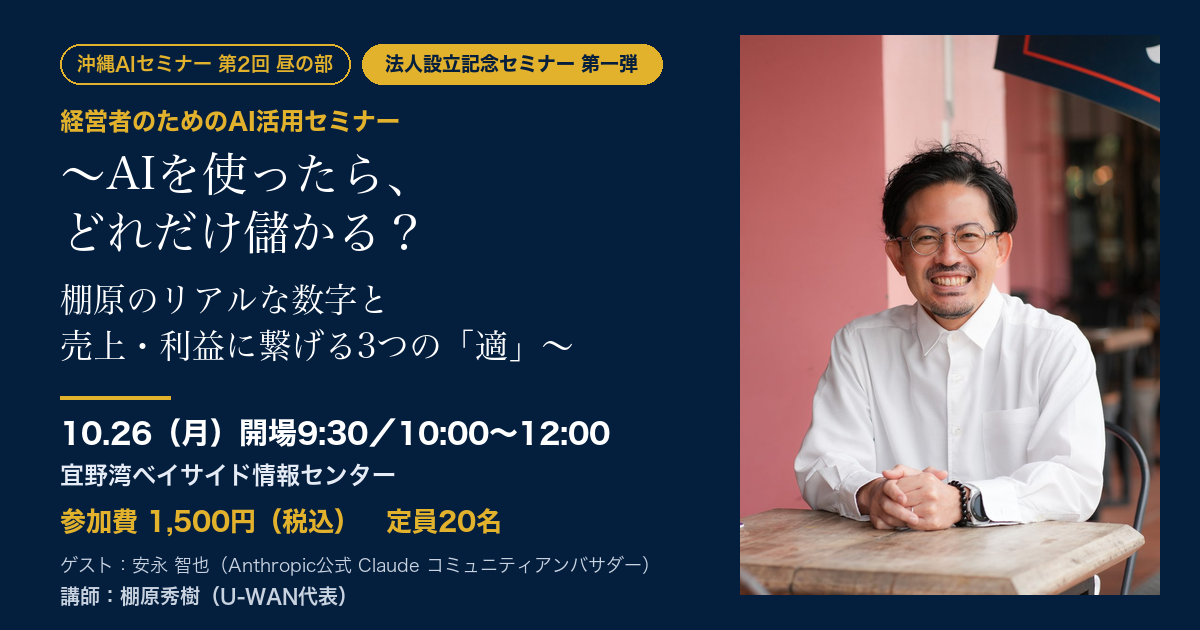
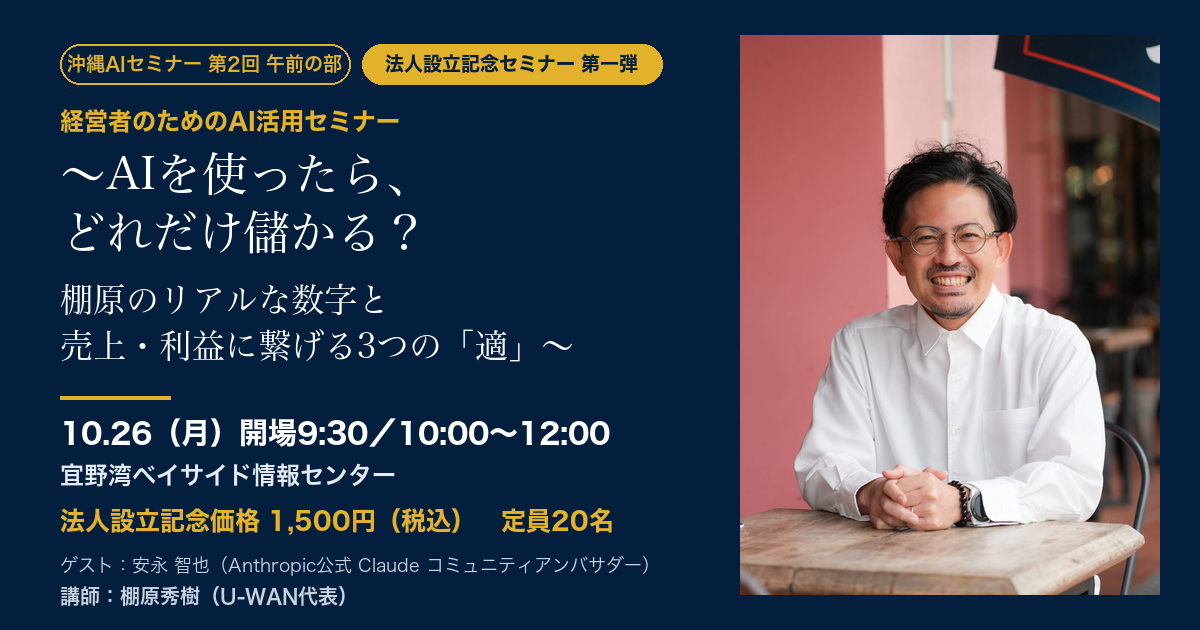
feat(morning LP/OTO): apply LP v2.5 and OTO v0.6 (午前の部, 法人設立記念価格, IPA numbers, FAQ 11)

Changed region(s): [[0.0308, 0.7841, 0.5242, 0.8444], [0.0617, 0.0905, 0.3083, 0.1206]]

diff --git a/okinawa-ai-seminar-02-morning/index.html b/okinawa-ai-seminar-02-morning/index.html
@@ -5,11 +5,11 @@
 <meta name="viewport" content="width=device-width, initial-scale=1">
 <meta name="robots" content="index, follow">
 <link rel="canonical" href="https://u-wan.jp/okinawa-ai-seminar-02-morning/">
-<title>沖縄AIセミナー 第2回 昼の部｜経営者のためのAI活用セミナー〜AIを使ったら、どれだけ儲かる？棚原のリアルな数字と売上・利益に繋げる3つの「適」〜</title>
-<meta name="description" content="2026年10月26日（月）開場9:30／10:00〜12:00、宜野湾で開く経営者・経営層向けのセミナー（参加費1,500円・税込・事前決済）です。棚原のリアルな数字と、AI社員が実際に働いている画面をお見せします。定員20名・先着順、会場参加のみ。">
+<title>沖縄AIセミナー 第2回 午前の部｜経営者のためのAI活用セミナー〜AIを使ったら、どれだけ儲かる？棚原のリアルな数字と売上・利益に繋げる3つの「適」〜</title>
+<meta name="description" content="2026年10月26日（月）開場9:30／10:00〜12:00、宜野湾で開く経営者・経営層向けのセミナー（法人設立記念価格 1,500円・税込）です。棚原のリアルな数字と、AI社員が実際に働いている画面をお見せします。定員20名・先着順、会場参加のみ。">
 <meta property="og:type" content="website">
-<meta property="og:title" content="沖縄AIセミナー 第2回 昼の部｜経営者のためのAI活用セミナー〜AIを使ったら、どれだけ儲かる？棚原のリアルな数字と売上・利益に繋げる3つの「適」〜">
-<meta property="og:description" content="2026年10月26日（月）宜野湾で開く、経営者・経営層向けのセミナー（参加費1,500円）。売上・利益に繋げる3つの「適」と、棚原のリアルな数字をお見せします。定員20名・先着順。">
+<meta property="og:title" content="沖縄AIセミナー 第2回 午前の部｜経営者のためのAI活用セミナー〜AIを使ったら、どれだけ儲かる？棚原のリアルな数字と売上・利益に繋げる3つの「適」〜">
+<meta property="og:description" content="2026年10月26日（月）宜野湾で開く、経営者・経営層向けのセミナー（法人設立記念価格 1,500円）。売上・利益に繋げる3つの「適」と、棚原のリアルな数字をお見せします。定員20名・先着順。">
 <meta property="og:url" content="https://u-wan.jp/okinawa-ai-seminar-02-morning/">
 <meta property="og:image" content="https://u-wan.jp/okinawa-ai-seminar-02-morning/assets/ogp.png">
 <meta property="og:image:width" content="1200">
@@ -26,8 +26,8 @@
 {
   "@context": "https://schema.org",
   "@type": "Event",
-  "name": "沖縄AIセミナー 第2回 昼の部｜経営者のためのAI活用セミナー〜AIを使ったら、どれだけ儲かる？棚原のリアルな数字と売上・利益に繋げる3つの「適」〜",
-  "description": "2026年10月26日（月）宜野湾で開く、経営者・経営層向けのセミナー（参加費1,500円）。売上・利益に繋げる3つの「適」と、棚原のリアルな数字をお見せします。定員20名・先着順。",
+  "name": "沖縄AIセミナー 第2回 午前の部｜経営者のためのAI活用セミナー〜AIを使ったら、どれだけ儲かる？棚原のリアルな数字と売上・利益に繋げる3つの「適」〜",
+  "description": "2026年10月26日（月）宜野湾で開く、経営者・経営層向けのセミナー（法人設立記念価格 1,500円）。売上・利益に繋げる3つの「適」と、棚原のリアルな数字をお見せします。定員20名・先着順。",
   "doorTime": "2026-10-26T09:30:00+09:00",
   "startDate": "2026-10-26T10:00:00+09:00",
   "endDate": "2026-10-26T12:00:00+09:00",
@@ -50,7 +50,7 @@
 
 <header class="site-header">
   <div class="wrap">
-    <span class="site-logo" aria-label="U-WAN 沖縄AIセミナー 第2回 昼の部">U-WAN <span>｜</span> <span class="logo-full" style="color:inherit">沖縄AIセミナー 第2回 昼の部</span><span class="logo-short" style="color:inherit">AIセミナー 昼の部</span></span>
+    <span class="site-logo" aria-label="U-WAN 沖縄AIセミナー 第2回 午前の部">U-WAN <span>｜</span> <span class="logo-full" style="color:inherit">沖縄AIセミナー 第2回 午前の部</span><span class="logo-short" style="color:inherit">AIセミナー 午前の部</span></span>
     <a class="btn btn-primary header-cta" href="https://uw.u-wan.jp/event/mkcg3Sk0tpSh/register">申し込む<span class="arrow" aria-hidden="true"></span></a>
   </div>
 </header>
@@ -65,7 +65,7 @@
       </picture></div>
   <div class="wrap hero-grid">
     <div class="hero-copy">
-      <div class="hero-tags"><p class="series-tag">沖縄AIセミナー 第2回 昼の部</p><p class="series-tag series-tag--gold">法人設立記念セミナー 第一弾</p></div>
+      <div class="hero-tags"><p class="series-tag">沖縄AIセミナー 第2回 午前の部</p><p class="series-tag series-tag--gold">法人設立記念セミナー 第一弾</p></div>
       <h1 id="hero-title" class="hero-title">
         <span class="kicker">経営者のためのAI活用セミナー</span>
         <span class="ln"><span class="nb">〜AIを使ったら、</span><span class="nb">どれだけ儲かる？</span></span>
@@ -128,12 +128,12 @@
       <dl class="hero-info">
         <div><dt>日時</dt><dd><b>2026年10月26日（月）</b> 開場9:30／10:00〜12:00</dd></div>
         <div><dt>会場</dt><dd>宜野湾ベイサイド情報センター（沖縄県宜野湾市）</dd></div>
-        <div><dt>参加費</dt><dd><b>1,500円</b>（税込・事前決済）</dd></div>
+        <div><dt>参加費</dt><dd><b>法人設立記念価格 1,500円</b>（税込）</dd></div>
         <div><dt>定員</dt><dd><b>20名</b>（先着順・会場参加のみ。オンライン配信はありません）</dd></div>
       </dl>
 
       <div class="cta-block">
-        <a class="btn btn-primary" href="https://uw.u-wan.jp/event/mkcg3Sk0tpSh/register">昼の部に申し込む<span class="arrow" aria-hidden="true"></span></a>
+        <a class="btn btn-primary" href="https://uw.u-wan.jp/event/mkcg3Sk0tpSh/register">午前の部に申し込む<span class="arrow" aria-hidden="true"></span></a>
       </div>
     </div>
   </div>
@@ -146,7 +146,7 @@
       <li><span class="stat-label">棚原が一緒に働いているAI社員の数（2026年10月時点）</span><b class="num">75<small>名</small></b></li>
       <li><span class="stat-label">AIを売上・利益に繋げるポイント「3適」</span><b class="num">3<small>つ</small></b></li>
       <li><span class="stat-label">定員（先着順・会場参加のみ）</span><b class="num">20<small>名</small></b></li>
-      <li><span class="stat-label">参加費（税込・事前決済）</span><b class="num">1,500<small>円</small></b></li>
+      <li><span class="stat-label">法人設立記念価格（税込）</span><b class="num">1,500<small>円</small></b></li>
     </ul>
   </div>
 </section>
@@ -156,7 +156,8 @@
   <div class="wrap wrap--narrow">
     <h2 class="sec-title problem-title"><span class="nb">効率化の効果は感じている。</span><span class="nb"><mark class="hl">次は、売上・利益へ。</mark></span></h2>
     <div class="problem-body">
-      <p>IPA『DX動向2026』では、AIを導入・活用して、顧客満足度が向上したか、売上や利益が向上したかという問いに「はい」と答えた方が、それぞれ<strong class="big-stat">4.5%</strong>、<strong class="big-stat">3.9%</strong>とされています。</p>
+      <p>IPA『DX動向2026』では、AIの導入で効果があったと答えた企業のうち、「業務が効率化したり迅速化した」が<strong>91.6%</strong>だった一方、「顧客満足度が向上した」が<strong class="big-stat">4.5%</strong>、「売上や利益が向上した」が<strong class="big-stat">3.9%</strong>とされています。</p>
+      <p>この数字、効率化を感じている割合と比較すると、<strong class="big-stat">とても低い</strong>んです。</p>
       <p class="problem-kicker">棚原は、こう見ています。</p>
       <p>多くの方が、AIによる効率化の効果は、もう感じています。</p>
       <p>次の一段は、経営の指標である<strong>売上・利益</strong>。</p>
@@ -240,7 +241,7 @@
     </div>
 
     <div class="cta-mid">
-      <a class="btn btn-primary" href="https://uw.u-wan.jp/event/mkcg3Sk0tpSh/register">昼の部に申し込む<span class="arrow" aria-hidden="true"></span></a>
+      <a class="btn btn-primary" href="https://uw.u-wan.jp/event/mkcg3Sk0tpSh/register">午前の部に申し込む<span class="arrow" aria-hidden="true"></span></a>
     </div>
   </div>
 </section>
@@ -307,23 +308,6 @@
   </div>
 </section>
 
-<!-- ========== 7. 参加前によくある気持ちへ ========== -->
-<section class="section sec-cream">
-  <div class="wrap wrap--narrow">
-    <h2 class="sec-title">参加前に、よくある気持ちへ</h2>
-    <div class="qa-stack">
-      <article class="qa-card">
-        <h3><span class="q">Q1</span>「有料のセミナーって、あとで何か売り込まれませんか？」</h3>
-        <p>参加費1,500円（税込）は、事前決済でお支払いいただきます。当日その場で、追加のお支払いをお願いすることはありません。<br>セミナーの最後に、ご希望の方向けに、無料個別相談のお申し込み方法をご案内します（相談は後日です）。ご参加は任意です。<br>お申し込み直後に、夜の部の特別なご案内の画面が表示されます（ご参加は任意です）。</p>
-      </article>
-      <article class="qa-card">
-        <h3><span class="q">Q2</span>「AIのことが分からなくても、社内の体制が整っていなくても、聴けますか？」</h3>
-        <p>大丈夫です。これからAIを本格的に使う方にも、すでに導入している方にも、参考にしていただける内容です。その両方を持ったままでお聴きください。</p>
-      </article>
-    </div>
-  </div>
-</section>
-
 <!-- ========== 8. 当日の流れ ========== -->
 <section class="section">
   <div class="wrap wrap--narrow">
@@ -365,7 +349,10 @@
     <h2 class="sec-title light">参加費のご案内</h2>
     <div class="price-card">
       <p class="price-label">参加費</p>
-      <p class="price-value"><b>1,500</b>円<small>（税込・事前決済）</small></p>
+      <p class="price-old"><span class="sr-only">通常価格</span><span aria-hidden="true">通常価格　</span>3,300円</p>
+      <p class="price-arrow" aria-hidden="true">↓</p>
+      <p class="price-badge">法人設立記念価格</p>
+      <p class="price-value"><b>1,500</b>円<small>（税込）</small></p>
     </div>
     <div class="price-incl">
       <p class="price-incl-title">参加費に含まれるもの</p>
@@ -379,10 +366,10 @@
     </div>
     <div class="price-terms">
       <p class="price-incl-title">お申し込みについて</p>
-      <p>お申し込みは事前のオンライン決済制です。大変恐れ入りますが、お申し込み後のキャンセル・返金は承っておりません。定員20名の少人数開催のため、まずはご予定をよくご確認のうえ、お申し込みをお願いいたします。</p>
+      <p>お支払いは、クレジットカード決済のみとなっております。大変恐れ入りますが、お申し込み後のキャンセル・返金は承っておりません。定員20名の少人数開催のため、まずはご予定をよくご確認のうえ、お申し込みをお願いいたします。</p>
     </div>
     <div class="cta-mid">
-      <a class="btn btn-primary" href="https://uw.u-wan.jp/event/mkcg3Sk0tpSh/register">昼の部に申し込む<span class="arrow" aria-hidden="true"></span></a>
+      <a class="btn btn-primary" href="https://uw.u-wan.jp/event/mkcg3Sk0tpSh/register">午前の部に申し込む<span class="arrow" aria-hidden="true"></span></a>
     </div>
   </div>
 </section>
@@ -393,10 +380,10 @@
     <h2 class="sec-title">開催概要</h2>
     <table class="overview">
       <tbody>
-        <tr><th scope="row">位置付け</th><td>法人設立記念セミナー 第一弾（昼の部）／第二弾（夜の部）</td></tr>
+        <tr><th scope="row">位置付け</th><td>法人設立記念セミナー 第一弾（午前の部）／第二弾（夜の部）</td></tr>
         <tr><th scope="row">日時</th><td>2026年10月26日（月）開場9:30／10:00〜12:00</td></tr>
         <tr><th scope="row">会場</th><td>宜野湾ベイサイド情報センター（沖縄県宜野湾市）<br><a class="text-link" href="https://maps.app.goo.gl/uBUHmyr1VZN5RHfTA" rel="noopener" target="_blank">地図を開く</a></td></tr>
-        <tr><th scope="row">参加費</th><td>1,500円（税込・事前決済）</td></tr>
+        <tr><th scope="row">参加費</th><td>法人設立記念価格 1,500円（税込）（通常価格3,300円）</td></tr>
         <tr><th scope="row">対象</th><td>経営者・経営層の方（社員の方のご参加はご遠慮いただいています）</td></tr>
         <tr><th scope="row">登壇</th><td>棚原秀樹／ゲスト：安永智也さん（セミナーの後にコメント）</td></tr>
         <tr><th scope="row">形式</th><td>会場参加のみ。オンライン配信はありません。資料の配布・録画はありません。途中でのご入退場はご遠慮いただいています</td></tr>
@@ -411,7 +398,7 @@
   <div class="wrap wrap--narrow">
     <div class="night">
       <h2 class="night-title">法人設立記念セミナー 第二弾は、夜の部です</h2>
-      <p>同じ日の夜、同じ会場で「<span class="nb">沖縄AIセミナー</span> <span class="nb">第2回</span> <span class="nb">夜の部</span>」を、法人設立記念セミナーの第二弾として開きます。</p>
+      <p>同じ日の夜、同じ会場で「<span class="nb">沖縄AIセミナー</span> <span class="nb">第2回</span> <span class="nb">夜の部</span>」を、法人設立記念セミナーの第二弾として開きます。<br>午前の部にご参加いただいた方には特典もございますので、よろしければ夜の部の参加もご検討ください。</p>
       <ul class="night-info">
         <li><b>日時</b>2026年10月26日（月）開場18:00／セミナー18:30〜20:30</li>
         <li><b>テーマ</b>これからの経営に必要なAI時代の成長戦略〜最先端のAI事情と活用方法〜</li>
@@ -425,15 +412,16 @@
   <div class="wrap wrap--narrow">
     <h2 class="sec-title">よくあるご質問</h2>
     <div class="faq">
-      <details><summary>参加費はいくらですか？お支払い方法は？</summary><p>参加費は1,500円（税込）です。お支払いは、事前のクレジットカード決済（Stripe）のみとなっております。恐れ入りますが、銀行振込でのお支払いは承っておりません。</p></details>
+      <details><summary>参加費はいくらですか？お支払い方法は？</summary><p>参加費は、法人設立記念価格 1,500円（税込）です。当日その場で、追加のお支払いをお願いすることはありません。お支払いは、クレジットカード決済（Stripe）のみとなっております。恐れ入りますが、銀行振込でのお支払いは承っておりません。</p></details>
       <details><summary>どんなセミナーですか？</summary><p>経営者・経営層向けに、AIを売上・利益に繋げる3つのポイント「3適」と、棚原のAI社員が実際に働いている画面を、棚原自身の数字とあわせてお話しするセミナーです。セミナーの後に、ゲストの安永智也さんからコメントをいただきます。当日、会場で個別に相談をお受けする時間は設けていません。個別相談をご希望の方には、最後にお申し込み方法をご案内します（相談は後日です）。</p></details>
+      <details><summary>AIのことが分からなくても、社内の体制が整っていなくても、聴けますか？</summary><p>大丈夫です。これからAIを本格的に使う方にも、すでに導入している方にも、参考にしていただける内容です。その両方を持ったままでお聴きください。</p></details>
       <details><summary>うちみたいな小さい会社でも、AIの成果は出ますか？</summary><p>中小企業・小規模な会社ほど、AIの効果や成果が出やすい面があると、棚原は考えています。意思決定が早く、社長のひと声で動けるという、小回りの良さがあるためです。当日は、その考え方もお話しします。</p></details>
       <details><summary>社員の方も参加できますか？</summary><p>経営者・経営層の方のみのご参加となります。経営判断の視点を中心にお話しするセミナーのため、社員の方のご参加はご遠慮いただいています。恐れ入りますが、ご了承ください。</p></details>
       <details><summary>当日の資料の配布や録画はありますか？</summary><p>資料の配布と録画は行いません。会場でご覧いただく形でお伝えします。</p></details>
       <details><summary>オンラインで見られますか？</summary><p>今回は会場参加のみで、オンライン配信は行いません。</p></details>
       <details><summary>会場に駐車場はありますか？</summary><p>駐車場はありますが、台数に限りがあります。少し早めのご来場や公共交通機関のご利用もご検討ください。</p></details>
       <details><summary>参加できなくなった場合は、キャンセルや返金はできますか？</summary><p>大変恐れ入りますが、お申し込み後のキャンセル・返金は承っておりません。定員20名の少人数開催のため、まずはご予定をよくご確認のうえ、お申し込みをお願いいたします。もし当日どうしてもご参加が難しくなった場合は、前日（10月25日）までに、お申し込み完了メールへのご返信でご一報いただけると、他の方にお席をご案内できて助かります。</p></details>
-      <details><summary>夜の部にも参加できますか？</summary><p>はい。夜の部（開場18:00／18:30〜20:30）も、同じ会場で、第二弾として開きます。昼の部とは別のセミナーで、昼の部は12:00に終了します。昼の部にお申し込みいただいた後に、特別なご案内をいたします。お申し込み直後の画面で、ご案内が表示されます。</p></details>
+      <details><summary>夜の部にも参加できますか？</summary><p>はい。夜の部（開場18:00／18:30〜20:30）も、同じ会場で、第二弾として開きます。午前の部とは別のセミナーで、午前の部は12:00に終了します。午前の部にお申し込みいただいた後に、特別なご案内をいたします。お申し込み直後の画面で、ご案内が表示されます。</p></details>
       <details><summary>途中で入退場できますか？</summary><p>途中でのご入退場はご遠慮いただいています。開始時刻までにお越しください。</p></details>
     </div>
   </div>
@@ -444,7 +432,7 @@
   <div class="wrap wrap--narrow">
     <h2><span class="nb">10月26日の午前、</span><span class="nb">宜野湾でお会いしましょう。</span></h2>
     <p>棚原のリアルな数字と、AI社員が実際に働いている画面を、お見せします。<br>ゲストの安永さんからのコメントも、あわせて楽しみにしていてください。<br>ざっくばらんなセミナーですので、肩の力を抜いて来てください。定員は20名、先着順です。</p>
-    <a class="btn btn-primary btn-lg" href="https://uw.u-wan.jp/event/mkcg3Sk0tpSh/register">昼の部に申し込む<span class="arrow" aria-hidden="true"></span></a>
+    <a class="btn btn-primary btn-lg" href="https://uw.u-wan.jp/event/mkcg3Sk0tpSh/register">午前の部に申し込む<span class="arrow" aria-hidden="true"></span></a>
   </div>
 </section>
 
@@ -467,7 +455,7 @@
 
 <!-- モバイル追従CTA -->
 <div class="sticky-cta" id="stickyCta" inert aria-hidden="true">
-  <a class="btn btn-primary" href="https://uw.u-wan.jp/event/mkcg3Sk0tpSh/register">昼の部に申し込む<span class="arrow" aria-hidden="true"></span></a>
+  <a class="btn btn-primary" href="https://uw.u-wan.jp/event/mkcg3Sk0tpSh/register">午前の部に申し込む<span class="arrow" aria-hidden="true"></span></a>
 </div>
 
 <script>

diff --git a/okinawa-ai-seminar-02-morning-oto/index.html b/okinawa-ai-seminar-02-morning-oto/index.html
@@ -5,12 +5,12 @@
 <meta name="viewport" content="width=device-width, initial-scale=1">
 <meta name="robots" content="noindex, nofollow">
 <link rel="canonical" href="https://u-wan.jp/okinawa-ai-seminar-02-morning-oto/">
-<title>【昼の部お申し込みの方へ】10月26日 夜の部のご案内｜沖縄AIセミナー 第2回</title>
-<meta name="description" content="沖縄AIセミナー 第2回 昼の部へのお申し込み、ありがとうございます。同じ10月26日・同じ会場で開く、法人設立記念セミナー 第二弾（夜の部）の特別価格のご案内です。">
+<title>【午前の部お申し込みの方へ】10月26日 夜の部のご案内｜沖縄AIセミナー 第2回</title>
+<meta name="description" content="沖縄AIセミナー 第2回 午前の部へのお申し込み、ありがとうございます。同じ10月26日・同じ会場で開く、法人設立記念セミナー 第二弾（夜の部）の特別価格のご案内です。">
 
 <meta property="og:type" content="website">
-<meta property="og:title" content="【昼の部お申し込みの方へ】10月26日 夜の部のご案内｜沖縄AIセミナー 第2回">
-<meta property="og:description" content="沖縄AIセミナー 第2回 昼の部へのお申し込み、ありがとうございます。同じ10月26日・同じ会場で開く、法人設立記念セミナー 第二弾（夜の部）の特別価格のご案内です。">
+<meta property="og:title" content="【午前の部お申し込みの方へ】10月26日 夜の部のご案内｜沖縄AIセミナー 第2回">
+<meta property="og:description" content="沖縄AIセミナー 第2回 午前の部へのお申し込み、ありがとうございます。同じ10月26日・同じ会場で開く、法人設立記念セミナー 第二弾（夜の部）の特別価格のご案内です。">
 <meta property="og:url" content="https://u-wan.jp/okinawa-ai-seminar-02-morning-oto/">
 <meta property="og:image" content="https://u-wan.jp/okinawa-ai-seminar-02-morning/assets/ogp.png">
 <meta property="og:image:width" content="1200">
@@ -534,7 +534,7 @@ p:last-child { margin-bottom: 0; }
   <section class="thanks pad">
     <div class="wrap">
       <h1 class="heading"><span class="nb">お申し込み、</span><span class="nb">ありがとうございます。</span></h1>
-      <p class="thanks-lead"><span class="nb">このたびは「沖縄AIセミナー 第2回 昼の部」に</span><span class="nb">お申し込みいただき、</span><span class="nb">ありがとうございます。</span></p>
+      <p class="thanks-lead"><span class="nb">このたびは「沖縄AIセミナー 第2回 午前の部」に</span><span class="nb">お申し込みいただき、</span><span class="nb">ありがとうございます。</span></p>
 
       <div class="countdown-wrap">
         <div class="countdown" data-countdown hidden>
@@ -545,7 +545,7 @@ p:last-child { margin-bottom: 0; }
 
       <div class="confirm-box">
         <span class="confirm-mark" aria-hidden="true">✓</span>
-        <p>10月26日（月）昼の部（10:00〜12:00）のお申し込みは、すでに完了しています。</p>
+        <p>10月26日（月）午前の部（10:00〜12:00）のお申し込みは、すでに完了しています。</p>
       </div>
 
       <p class="thanks-note">お申し込み完了のメールをお送りしていますので、ご確認ください。<br>
@@ -557,9 +557,9 @@ p:last-child { margin-bottom: 0; }
   <section class="turn">
     <div class="wrap">
       <h2 class="heading heading--center heading--light">実は、もう一つお伝えしたいことがあります。</h2>
-      <p>昼の部と<strong class="turn-highlight">同じ10月26日、同じ会場</strong>で、<br>
+      <p>午前の部と<strong class="turn-highlight">同じ10月26日、同じ会場</strong>で、<br>
       法人設立記念セミナーの第二弾として、夜の部を開催します。</p>
-      <p style="margin-top:22px;">夜の部には、ゲストとして、昼の部にも登壇する安永智也さんにお越しいただきます。</p>
+      <p style="margin-top:22px;">夜の部には、ゲストとして、午前の部にも登壇する安永智也さんにお越しいただきます。</p>
     </div>
   </section>
 
@@ -659,7 +659,7 @@ p:last-child { margin-bottom: 0; }
         <div class="overview-row">
           <dt>形式</dt>
           <dd>リアル開催<br>
-          （昼の部と同じ日・同じ会場での開催です。法人設立記念セミナーの第二弾（昼の部が第一弾）で、別途お申し込みが必要です）</dd>
+          （午前の部と同じ日・同じ会場での開催です。法人設立記念セミナーの第二弾（午前の部が第一弾）で、別途お申し込みが必要です）</dd>
         </div>
         <div class="overview-row">
           <dt>キャンセル</dt>
@@ -677,7 +677,7 @@ p:last-child { margin-bottom: 0; }
   <section class="pricing pad" data-hide-on-close>
     <div class="wrap">
       <h2 class="heading">特別価格のご案内</h2>
-      <p class="pricing-lead">昼の部にお申し込みいただいた方に、<br>
+      <p class="pricing-lead">午前の部にお申し込みいただいた方に、<br>
       特別価格でご案内します。</p>
 
       <div class="price-card">
@@ -719,11 +719,11 @@ p:last-child { margin-bottom: 0; }
         <span class="ps-label">P.S.</span>
         <p>このページを読んで、「今回は見送ろう」と思われた方もいらっしゃると思います。それでまったく問題ありません。</p>
 
-        <div class="ps-confirm">10月26日 昼の部のお申し込みは、すでに完了しています。</div>
+        <div class="ps-confirm">10月26日 午前の部のお申し込みは、すでに完了しています。</div>
 
         <p>当日のご案内は、追ってメールでお送りしますので、そちらを楽しみにお待ちください。</p>
 
-        <p style="margin-top:16px;">法人設立記念セミナーの第一弾（昼の部）に続く第二弾です。同じ日・同じ会場で、昼の部は12:00に終了し、夜の部は18:00開場ですので、あわせてご参加いただくこともできます。</p>
+        <p style="margin-top:16px;">法人設立記念セミナーの第一弾（午前の部）に続く第二弾です。同じ日・同じ会場で、午前の部は12:00に終了し、夜の部は18:00開場ですので、あわせてご参加いただくこともできます。</p>
 
         <p style="margin-top:16px;" data-hide-on-close>もし10月26日の夜、安永さんの話を直接聞いてみたいと思われたら、<br>
         このページはいつでも見返せる場所にあるわけではありません。<br>

diff --git a/okinawa-ai-seminar-02-morning/style.css b/okinawa-ai-seminar-02-morning/style.css
@@ -423,3 +423,10 @@ main{overflow-x:clip}
 .price-badge{display:inline-block;margin:0 0 8px;font-size:clamp(20px,5.2vw,28px);font-weight:800;color:var(--gold);font-family:var(--serif)}
 .big-stat,.big-stat-em{font-family:var(--serif);font-size:1.5em;color:var(--orange-dark);font-weight:700}
 .solution-text{text-align:left}.solution-text .sec-title{text-align:center}
+
+/* v2.5：料金ブロック（通常価格を二重取り消し線→法人設立記念価格を大きく） */
+.sr-only{position:absolute;width:1px;height:1px;overflow:hidden;clip:rect(0 0 0 0);white-space:nowrap}
+.price-card .price-old{margin:6px 0 0;font-size:clamp(20px,5vw,26px);font-weight:700;color:#C9D3E0;text-decoration:line-through;text-decoration-style:double;text-decoration-thickness:2px;text-decoration-color:var(--gold);text-decoration-skip-ink:none}
+.price-arrow{margin:4px 0;color:var(--gold);font-size:22px;line-height:1}
+.price-card .price-badge{margin:0 0 4px;font-size:clamp(24px,6.4vw,34px);color:var(--gold)}
+.price-card .price-value b{font-size:clamp(54px,14vw,76px)}
